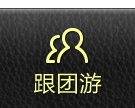
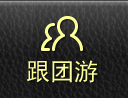
update tabbar

Changed region(s): [[0.1875, 0.1531, 0.7812, 0.8878], [0.0, 0.0, 1.0, 0.1224], [0.25, 0.3367, 0.2812, 0.3673]]

diff --git a/Travel/AppDelegate.m b/Travel/AppDelegate.m
@@ -45,7 +45,7 @@
 
 - (void)hideTabBar:(BOOL)isHide
 {
-    [self.tabBarController hide:isHide];
+    [self.tabBarController hideCustomTabBarView:isHide];
 }
 
 - (void)initTabViewControllers
@@ -107,7 +107,9 @@
                                                   @"menu_btn5_on.png", nil]];
     _tabBarController.selectedIndex = 0;
     
-    PPDebug(@"tabBar height:%f",_tabBarController.tabBar.frame.size.height);
+    UIImageView *imageView = [[UIImageView alloc] initWithImage:[UIImage imageNamed:@"menu_arrow.png"]];
+    [_tabBarController setTopImageView:imageView down:1.0 animated:YES];
+    [imageView release];
 	
 	[controllers release];
 }

diff --git a/Travel/Controller/MainController.m b/Travel/Controller/MainController.m
@@ -151,7 +151,6 @@
 
 - (void)viewDidDisappear:(BOOL)animated
 {
-    self.hidesBottomBarWhenPushed = NO;
     AppDelegate *appDelegate = (AppDelegate *)[[UIApplication sharedApplication] delegate];
     [appDelegate hideTabBar:YES];
     [super viewDidDisappear:animated];

diff --git a/Travel/Controller/Route/RouteList/CommonRouteListController.m b/Travel/Controller/Route/RouteList/CommonRouteListController.m
@@ -119,7 +119,6 @@
 
 - (void)viewDidDisappear:(BOOL)animated
 {
-    self.hidesBottomBarWhenPushed = NO;
     AppDelegate *appDelegate = (AppDelegate *)[[UIApplication sharedApplication] delegate];
     [appDelegate hideTabBar:YES];
     [super viewDidDisappear:animated];

diff --git a/Travel/Controller/More/MoreController.m b/Travel/Controller/More/MoreController.m
@@ -95,7 +95,6 @@
 
 - (void)viewDidDisappear:(BOOL)animated
 {
-    self.hidesBottomBarWhenPushed = NO;
     AppDelegate *appDelegate = (AppDelegate *)[[UIApplication sharedApplication] delegate];
     [appDelegate hideTabBar:YES];
     [super viewDidDisappear:animated];
